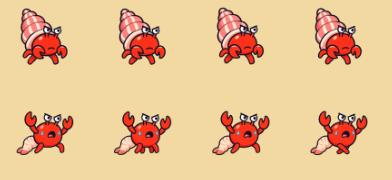
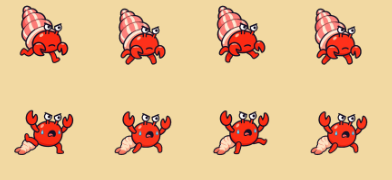
QA: looks v0.1.1 frozen/poisoned/burning/sparked in both worlds; crab v0.1.3 shot 04, frame strip 16, in-game walk grabs 27

diff --git a/docs/qa/world2/README.md b/docs/qa/world2/README.md
@@ -1,21 +1,26 @@
 # World 2 review evidence (PR #5)
 
-Taken Nov 12 2026 (04, 07, 08, 14-18 retaken on Beach art v0.1.2) from the `world-2-beach` branch, served on 127.0.0.1 in Chrome at DPR 2, then saved at real CSS size
+Taken Nov 12 2026 (04, 07, 08, 14-18 retaken on Beach art v0.1.2; 04 + 16 again on the v0.1.3 crab walk; 09, 10, 19-24 on element looks v0.1.1) from the `world-2-beach` branch, served on 127.0.0.1 in Chrome at DPR 2, then saved at real CSS size
 (390x844 unless the name says otherwise) as 256-colour PNGs to keep the set small. The game art itself is not changed.
 
 | Shot | Shows |
 |---|---|
 | 01 / 02 / 03 | Start screen, fresh save: Beach locked with `card_locked_overlay.png` only (no filter, no opacity) at 390x844, 375x667 (compact badge), 360x740 |
-| 04 | Beach v0.1.2: `hermit_crab_b` crabs, shell on (top-left, bottom-left) and broken/bare (right) |
+| 04 | Beach v0.1.3: `hermit_crab_b` crabs (walk pass c), shell on (top-left, bottom-left) and broken/bare (right) |
 | 05 / 06 | Gulls + shadows; Elite Big Red shell (taken on v0.1.1 art, unchanged in v0.1.2) |
 | 07 | Crabclaw coconut aimed straight at the tower: v0.1.2 300 px warning decal, inner ring = dangerR (44), chevron band out to ~1.83x, clear of the tower body |
 | 08 | Crabclaw phase 2 angry art (two coconuts in the air, so two decals overlap) |
 | 14 | Crabclaw phase 1 walking in |
 | 15 | Beach surf (ping-pong 0,1,2,3,2,1 @6 fps) behind a WAVE CLEAR banner; still frame, the loop is checked in the PR text |
-| 16 | Hermit crab walk cells 0-3 at real game size (DPR 2), shelled row then bare row |
+| 16 | Hermit crab v0.1.3 walk cells 0-3 at real game size (DPR 2), shelled row then bare row |
 | 17 | Crabclaw walk cells (JSON sequence 0,1,2,1) then angry walk, real game size (DPR 2) |
 | 18 | 4x crop of shot 07's decal around the tower |
-| 09 / 10 | Backyard enemies frozen / poisoned: the IceCrust / VenomDrips image looks alone (code status rings removed) |
-| 11 | Beach: frozen crab + Elite Big Red, poisoned crab + gull (v0.1.1 `hermit_crab_a` crabs; the looks are the point of this shot) |
+| 09 / 10 | Backyard enemies + King Mole frozen / poisoned: element looks v0.1.1 (round IceCrust, cup VenomDrips) alone, no code rings |
 | 12 | Results after a local dev-door Beach run: "(test run, not saved)"; the save is restored byte-for-byte |
 | 13 | The same `?debug=1&unlock=beach` URL on a non-local host: ignored, Beach stays locked |
+| 19 / 20 | Beach crabs, gulls, Elite Big Red and Captain Crabclaw frozen / poisoned (looks v0.1.1) |
+| 21 / 22 | Backyard / Beach burning (BurnFlames v0.1.1) |
+| 23 / 24 | Backyard / Beach sparked, SparkCrackle v0.1.1 peak frame alone (look flashed directly, no chain-bolt lines) |
+| 27 | One shelled crab walking in game, 16 grabs ~50 ms apart, DPR 2 |
+
+Look shots 09, 10 and 19-24 are 256-colour octree PNGs without dithering, so the sand and grass show some flat banding; the looks themselves are faithful (p99 colour error ≤22/255).
